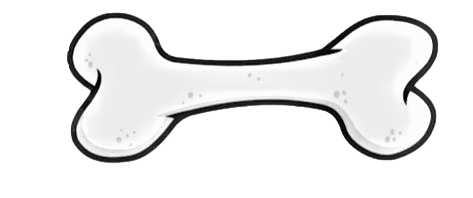
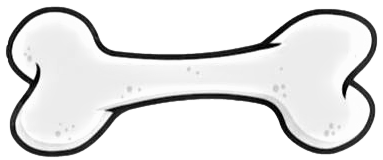
last styles and bones sizes changed

diff --git a/styles/style.css b/styles/style.css
@@ -47,7 +47,7 @@ label {
 }
 
 .instructions {
-  display:flex;
+  display: flex;
   text-align: center;
   justify-content: center;
   flex-direction: column;
@@ -56,18 +56,18 @@ label {
   overflow: hidden;
   margin-top: 10px;
   font-family: Rammetto One;
-  background-color: rgba(2255, 255, 255, 0.5) ;
+  background-color: rgba(2255, 255, 255, 0.7);
   border-radius: 10px;
-  padding-left:10px;
-  padding-right:10px;
+  padding-left: 10px;
+  padding-right: 10px;
 }
 
-.instructions p{
-  margin-top:0px;
+.instructions p {
+  margin-top: 0px;
 }
-.instructions h4{
-  margin-bottom :8px;
-  margin-top:10px;
+.instructions h4 {
+  margin-bottom: 8px;
+  margin-top: 10px;
 }
 
 #instructions:checked + label + .instructions {

diff --git a/javascript/game.js b/javascript/game.js
@@ -143,8 +143,8 @@ class Game {
         randomPositionXFood,
         randomPositionYFood,
         "./images/bone.png",
-        90,
-        45
+        75,
+        35
       );
       this.foodArr.push(food);
     }
@@ -158,8 +158,8 @@ class Game {
         randomPositionXSpecialBone,
         randomPositionYSpecialBone,
         "./images/special-bone.png",
-        85,
-        55
+        75,
+        35
       );
       this.specialBoneArr.push(specialBone);
       this.wanda.canGainLife = false;

diff --git a/index.html b/index.html
@@ -30,7 +30,7 @@
             encuentren a tu paso. Coge todos los huesos
             <img src="./images/bone.png" width="50" /> que puedas para sumar
             puntos. ¡Los huesos especiales
-            <img src="images/special-bone.png" width="40" /> te sumarán una
+            <img src="images/special-bone.png" width="50" /> te sumarán una
             vida!
           </p></div>
       </div>
